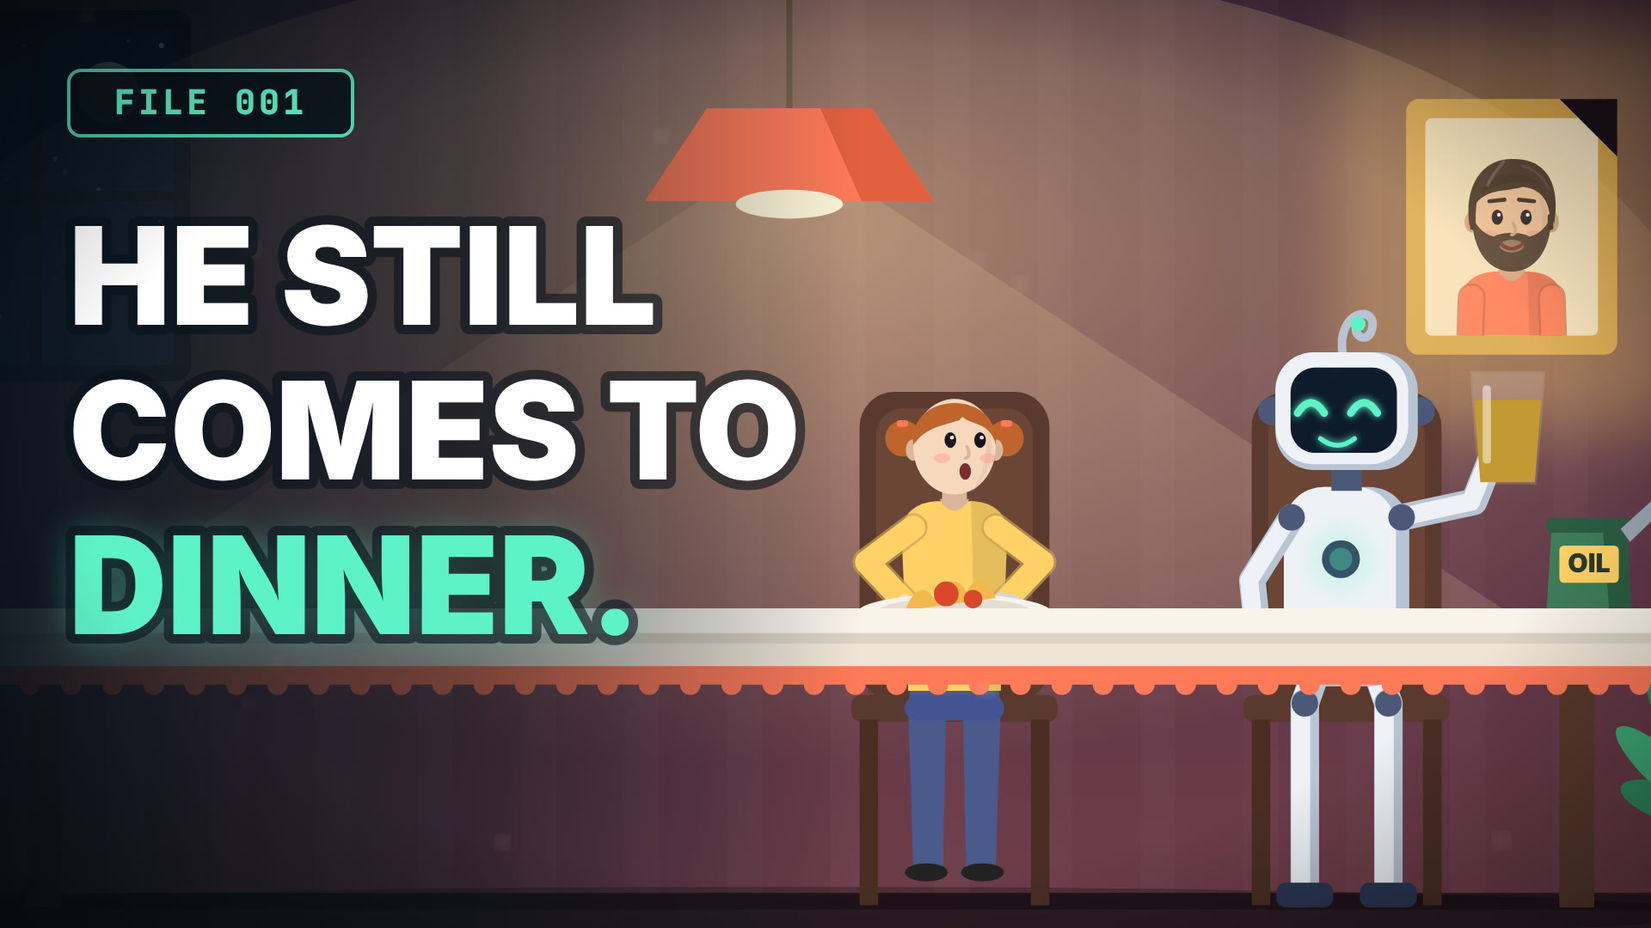
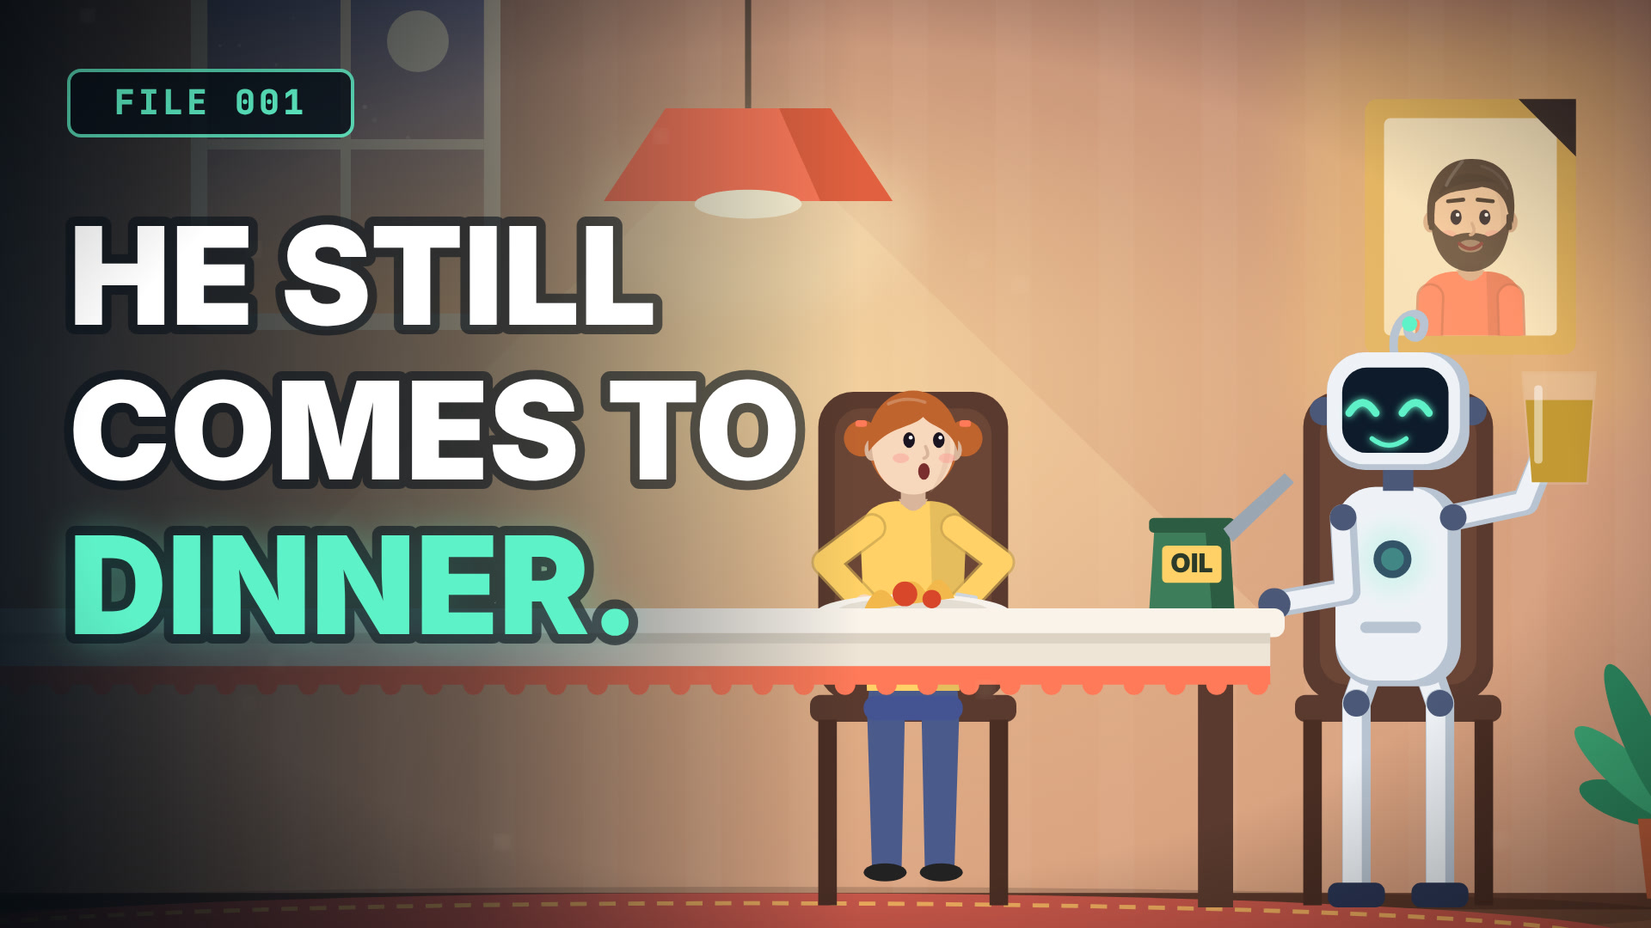
Esstisch: Eltern am Kopf, helles warmes Licht, Lilys Haare, Fenster und Bilder neu platziert
Claude-Session: https://claude.ai/code/session_01CuRfxHh2iLhwMTCqKNrY1o

diff --git a/animation/the-copy/scenes.js b/animation/the-copy/scenes.js
@@ -5,31 +5,33 @@ const camLerp = (k, a, b) => [lerp(a[0], b[0], k), lerp(a[1], b[1], k), lerp(a[2
 
 // ======================= ESSZIMMER =======================
 const TY = 700, FLOOR = 990, SEATY = 780;   // Tischkante, Boden, Sitzhöhe                      // Tischkante
-const SEAT = { mom: 430, lily: 800, ben: 1150, bot: 1500 };
+const SEAT = { mom: 290, lily: 740, ben: 1180, bot: 1600 };
+const TBL = 420, TBR = 1500;   // Tischenden: Mama und Papa sitzen am Kopf
 const eat = (t, ph) => { const c = ((t + ph) % 2.6) / 2.6; return c < .5 ? ease(c * 2) : ease((1 - c) * 2); };
 
+const WX = 340, WY = -50;   // Fenster: nach rechts und etwas nach oben verschoben
 function room(t, dayK = 0) {
-  let s = `<linearGradient id="wall" x1="0" y1="0" x2="0" y2="1"><stop offset="0" stop-color="#2c1f33"/><stop offset=".65" stop-color="#5a3446"/><stop offset="1" stop-color="#6e3d4a"/></linearGradient>
+  let s = `<linearGradient id="wall" x1="0" y1="0" x2="0" y2="1"><stop offset="0" stop-color="#8a5a5e"/><stop offset=".6" stop-color="#c58a74"/><stop offset="1" stop-color="#d49a7c"/></linearGradient>
   <rect x="-400" y="-400" width="${W + 800}" height="${FLOOR + 400}" fill="url(#wall)"/>`;
-  for (let i = -4; i < 24; i++) s += `<rect x="${i * 100}" y="-400" width="34" height="${FLOOR + 400}" fill="#fff" opacity=".022"/>`;
-  const top = mix('#101a3d', '#6fc3ff', dayK), bot = mix('#2a2d5e', '#ffd6a0', dayK);
+  for (let i = -4; i < 24; i++) s += `<rect x="${i * 100}" y="-400" width="34" height="${FLOOR + 400}" fill="#fff" opacity=".045"/>`;
+  const top = mix('#4a5aa8', '#6fc3ff', dayK), bot = mix('#ffb07a', '#ffd6a0', dayK);
   s += `<linearGradient id="win" x1="0" y1="0" x2="0" y2="1"><stop offset="0" stop-color="${top}"/><stop offset="1" stop-color="${bot}"/></linearGradient>
-  <rect x="80" y="120" width="300" height="360" rx="16" fill="#1c1420"/><rect x="96" y="136" width="268" height="328" rx="8" fill="url(#win)"/>`;
+  <rect x="${80 + WX}" y="${120 + WY}" width="300" height="360" rx="16" fill="#f3e6d6"/><rect x="${96 + WX}" y="${136 + WY}" width="268" height="328" rx="8" fill="url(#win)"/>`;
   const R = rng(11);
-  for (let i = 0; i < 26; i++) { const sx = 100 + R() * 260, sy = 140 + R() * 300, ph = R() * 6; s += `<circle cx="${sx}" cy="${sy}" r="${1 + R() * 2}" fill="#fff" opacity="${(1 - dayK) * (.4 + .5 * Math.sin(t * 2 + ph) ** 2)}"/>`; }
-  s += `<circle cx="300" cy="200" r="30" fill="${dayK > .5 ? '#fff4c2' : '#f2f0e6'}"/>
-  <rect x="225" y="136" width="10" height="328" fill="#1c1420"/><rect x="96" y="295" width="268" height="10" fill="#1c1420"/>`;
+  for (let i = 0; i < 26; i++) { const sx = WX + 100 + R() * 260, sy = WY + 140 + R() * 300, ph = R() * 6; s += `<circle cx="${sx}" cy="${sy}" r="${1 + R() * 2}" fill="#fff" opacity="${(1 - dayK) * (.2 + .3 * Math.sin(t * 2 + ph) ** 2) * (sy < 300 + WY ? 1 : 0)}"/>`; }
+  s += `<circle cx="${300 + WX}" cy="${200 + WY}" r="30" fill="${dayK > .5 ? '#fff4c2' : '#f2f0e6'}"/>
+  <rect x="${225 + WX}" y="${136 + WY}" width="10" height="328" fill="#f3e6d6"/><rect x="${96 + WX}" y="${295 + WY}" width="268" height="10" fill="#f3e6d6"/>`;
   return s;
 }
 function lamp(t) {
   return `<line x1="960" y1="-400" x2="960" y2="215" stroke="#1a1018" stroke-width="6"/>
-    <polygon points="260,${TY + 6} 1660,${TY + 6} 1040,300 880,300" fill="#ffe2b0" opacity=".16"/>
-    <ellipse cx="960" cy="${TY - 200}" rx="900" ry="440" fill="url(#lampGlow)" opacity=".7"/>
+    <polygon points="${TBL + 40},${TY + 6} ${TBR - 40},${TY + 6} 1040,300 880,300" fill="#fff0c8" opacity=".24"/>
+    <ellipse cx="960" cy="${TY - 220}" rx="1250" ry="700" fill="url(#lampGlow)"/><ellipse cx="960" cy="330" rx="160" ry="90" fill="#fff3c8" opacity=".35" filter="url(#glow)"/>
     <path d="M880 215 L1040 215 L1100 305 L820 305 Z" fill="${CORAL}"/><path d="M990 215 L1040 215 L1100 305 L1030 305 Z" fill="#e0603f"/>
     <ellipse cx="960" cy="308" rx="52" ry="14" fill="#fff6d8"/>`;
 }
 // Bilderrahmen; Nr. 0 = Papa (Gold), weitere erscheinen im Zeitraffer
-const FRAMES = [[1700, 190, 'dad'], [1830, 260, 'a'], [1610, 300, 'b'], [1280, 170, 'mom'], [1420, 210, 'c'], [1880, 110, 'd']];
+const FRAMES = [[1480, 190, 'dad'], [1620, 260, 'a'], [1355, 345, 'b'], [1240, 140, 'mom'], [1780, 200, 'c'], [1640, 95, 'd']];
 function frames(n, hl = 0) {
   let s = '';
   FRAMES.forEach(([fx, fy, who], i) => {
@@ -54,18 +56,31 @@ function plant(k) {
   for (let i = 0; i < 7; i++) l += `<g transform="rotate(${-90 + (i - 3) * 24})"><ellipse cx="${55 + (i % 3) * 18}" cy="0" rx="${55 + (i % 3) * 18}" ry="20" fill="${i % 2 ? '#3fae7a' : '#2e8c62'}"/></g>`;
   return `<g transform="translate(1860 ${FLOOR - 86}) scale(${sc})">${l}<path d="M-42 0 L42 0 L32 86 L-32 86 Z" fill="#c8643f"/></g>`;
 }
-function table() {
-  return `<rect x="220" y="${TY + 60}" width="34" height="${FLOOR - TY - 60}" fill="#5a3a2e"/><rect x="1706" y="${TY + 60}" width="34" height="${FLOOR - TY - 60}" fill="#5a3a2e"/>
-    <rect x="150" y="${TY}" width="1660" height="28" rx="10" fill="#f9f3ea"/>
-    <rect x="164" y="${TY + 24}" width="1632" height="40" fill="#efe5d6"/>
-    <rect x="164" y="${TY + 24}" width="1632" height="10" fill="#000" opacity=".08"/>
-    <rect x="164" y="${TY + 56}" width="1632" height="18" fill="${CORAL}"/>
-    ${Array.from({ length: 41 }, (_, i) => `<circle cx="${184 + i * 40}" cy="${TY + 74}" r="10" fill="${CORAL}"/>`).join('')}`;
+function table(TBL_ = TBL, TBR_ = TBR) {
+  const TBL = TBL_, TBR = TBR_, w = TBR - TBL, n = Math.floor((w - 40) / 40) + 1;
+  return `<rect x="${TBL + 50}" y="${TY + 60}" width="34" height="${FLOOR - TY - 60}" fill="#5a3a2e"/><rect x="${TBR - 84}" y="${TY + 60}" width="34" height="${FLOOR - TY - 60}" fill="#5a3a2e"/>
+    <rect x="${TBL}" y="${TY}" width="${w}" height="28" rx="10" fill="#f9f3ea"/>
+    <rect x="${TBL + 14}" y="${TY + 24}" width="${w - 28}" height="40" fill="#efe5d6"/>
+    <rect x="${TBL + 14}" y="${TY + 24}" width="${w - 28}" height="10" fill="#000" opacity=".08"/>
+    <rect x="${TBL + 14}" y="${TY + 56}" width="${w - 28}" height="18" fill="${CORAL}"/>
+    ${Array.from({ length: n }, (_, i) => `<circle cx="${TBL + 34 + i * 40}" cy="${TY + 74}" r="10" fill="${CORAL}"/>`).join('')}`;
+}
+// Mitte des Tisches: Auflaufform mit Dampf, Brotkorb, Kerze
+function tableCenter(t) {
+  const st = [0, 1, 2].map(i => { const k = ((t * .35 + i / 3) % 1); return `<path d="M${930 + i * 30} ${TY - 70 - k * 60} q 10 -14 0 -28 q -10 -14 0 -28" stroke="#fff" stroke-width="5" fill="none" stroke-linecap="round" opacity="${.25 * Math.sin(k * Math.PI)}"/>`; }).join('');
+  // große Spaghetti-Schüssel ("Spaghetti, as always")
+  return `${st}<ellipse cx="960" cy="${TY - 66}" rx="70" ry="26" fill="#f4d27a"/>
+    ${[-40, -14, 12, 38].map((dx, i) => `<path d="M${960 + dx - 26} ${TY - 64} q 14 -${18 + i * 3} 28 -4 q 12 14 24 -2" stroke="#e8b84e" stroke-width="5" fill="none" stroke-linecap="round"/>`).join('')}
+    <ellipse cx="972" cy="${TY - 82}" rx="30" ry="14" fill="#d9442f"/><circle cx="948" cy="${TY - 80}" r="9" fill="#8a3a2a"/><circle cx="984" cy="${TY - 88}" r="8" fill="#8a3a2a"/><path d="M990 ${TY - 96} l 10 -8 l 4 10 z" fill="#3fae7a"/>
+    <path d="M876 ${TY - 64} L1044 ${TY - 64} C 1040 ${TY - 20}, 1010 ${TY - 2}, 960 ${TY - 2} C 910 ${TY - 2}, 880 ${TY - 20}, 876 ${TY - 64} Z" fill="#f7f3ec"/>
+    <path d="M880 ${TY - 50} L1040 ${TY - 50} L1036 ${TY - 40} L884 ${TY - 40} Z" fill="${CORAL}" opacity=".85"/>
+    ${[852, 1068].map((cx, i) => `<rect x="${cx - 7}" y="${TY - 96}" width="14" height="94" rx="4" fill="#fff3dd"/><ellipse cx="${cx}" cy="${TY - 108 + Math.sin(t * 7 + i) * 1.5}" rx="7" ry="12" fill="${SUN}"/><circle cx="${cx}" cy="${TY - 108}" r="34" fill="${SUN}" opacity="${.14 + .04 * Math.sin(t * 9 + i)}"/>`).join('')}`;
 }
 function floorAndChairs(seats) {
-  let s = `<rect x="-400" y="${FLOOR}" width="${W + 800}" height="600" fill="#3a2630"/><rect x="-400" y="${FLOOR - 14}" width="${W + 800}" height="16" fill="#2a1a22"/>`;
-  for (let i = 0; i < 6; i++) s += `<rect x="-400" y="${FLOOR + 22 + i * 30}" width="${W + 800}" height="3" fill="#000" opacity=".15"/>`;
-  s += `<ellipse cx="960" cy="${FLOOR + 6}" rx="900" ry="26" fill="#000" opacity=".25"/>`;
+  let s = `<rect x="-400" y="${FLOOR}" width="${W + 800}" height="600" fill="#8a5a42"/><rect x="-400" y="${FLOOR - 14}" width="${W + 800}" height="16" fill="#6b4232"/>`;
+  for (let i = 0; i < 6; i++) s += `<rect x="-400" y="${FLOOR + 22 + i * 30}" width="${W + 800}" height="3" fill="#000" opacity=".1"/>`;
+  s += `<ellipse cx="960" cy="${FLOOR + 6}" rx="900" ry="26" fill="#000" opacity=".15"/>`;
+  s += `<ellipse cx="960" cy="${FLOOR + 30}" rx="860" ry="44" fill="#c8574a"/><ellipse cx="960" cy="${FLOOR + 30}" rx="820" ry="34" fill="none" stroke="${SUN}" stroke-width="4" stroke-dasharray="16 12" opacity=".7"/>`;
   seats.forEach(x => s += `<rect x="${x - 92}" y="${SEATY - 290}" width="184" height="300" rx="34" fill="#5a3a2e"/><rect x="${x - 76}" y="${SEATY - 274}" width="152" height="268" rx="26" fill="#6b4636"/>
     <rect x="${x - 100}" y="${SEATY + 4}" width="200" height="26" rx="10" fill="#5a3a2e"/>
     <rect x="${x - 92}" y="${SEATY + 28}" width="18" height="${FLOOR - SEATY - 30}" fill="#4a2e24"/><rect x="${x + 74}" y="${SEATY + 28}" width="18" height="${FLOOR - SEATY - 30}" fill="#4a2e24"/>`);
@@ -79,8 +94,8 @@ function family(t, st) {
   const rest = (x, sc) => ({ hL: [x - 58 * sc, TY - 4], hR: [x + 58 * sc, TY - 4] });
   if (st.momOp > 0) {
     s += person({ x: SEAT.mom, neck: N, hair: 'mom', hairCol: mix('#8a5a3c', '#d8d8de', st.momGrey || 0), skin: '#f6d1b0', shirt: '#3fae7a', t,
-      look: st.momLook || [6, 0], mouth: st.momMouth || 'smile', brows: st.momBrows, blink: blinkAt(t, 1), op: st.momOp, age: st.momGrey,
-      legs: 'sit', foot: FLOOR, pants: '#3a3550', ...rest(SEAT.mom, 1) });
+      look: st.momLook || [12, 0], mouth: st.momMouth || 'smile', brows: st.momBrows, blink: blinkAt(t, 1), op: st.momOp, age: st.momGrey,
+      legs: 'sit', foot: FLOOR, pants: '#3a3550', hL: [SEAT.mom - 40, SEATY + 6], hR: [TBL + 46, TY - 4] });
   }
   if (st.lilyOp > 0) {
     const ls = st.lilyS || .8, ln = SEATY - 230 * ls;
@@ -100,20 +115,20 @@ function family(t, st) {
 
 // Roboter am Tisch inkl. Öl-Handlung. st.pour/st.drink 0..1
 function botAtTable(t, st) {
-  const bx = SEAT.bot, n = SEATY - 205, CAN = [1700, TY + 4], GL = [1620, TY + 2];
-  let hR = [bx + 84, TY + 44], hL = [bx - 84, TY + 44], can = CAN, canTilt = 0, gp = GL, gTilt = 0, level = st.level ?? .7;
+  const bx = SEAT.bot, n = SEATY - 205, CAN = [TBR - 70, TY + 4], GL = [TBR - 170, TY + 2];
+  let hR = [bx + 56, SEATY + 6], hL = [TBR - 10, TY - 4], can = CAN, canTilt = 0, gp = GL, gTilt = 0, level = st.level ?? .7;
   if (st.reach > 0) {
-    can = [lerp(CAN[0], 1660, st.lift || 0), lerp(CAN[1], TY - 150, st.lift || 0)];
+    can = [lerp(CAN[0], GL[0] + 40, st.lift || 0), lerp(CAN[1], TY - 150, st.lift || 0)];
     canTilt = -55 * (st.pour || 0);
-    hR = [lerp(hR[0], can[0], st.reach), lerp(hR[1], can[1] - 40, st.reach)];
+    hL = [lerp(hL[0], can[0], st.reach), lerp(hL[1], can[1] - 40, st.reach)];
   }
   if (st.drink > 0) {
-    gp = [lerp(GL[0], bx + 40, st.drink), lerp(GL[1], n - 60, st.drink)]; gTilt = -60 * st.drink;
-    hR = [gp[0] + 12, gp[1] - 40];
+    gp = [lerp(GL[0], bx - 40, st.drink), lerp(GL[1], n - 60, st.drink)]; gTilt = 60 * st.drink;
+    hL = [gp[0] - 12, gp[1] - 40];
   }
-  if (st.wave > 0) hL = [lerp(hL[0], bx - 120 + Math.sin(t * 11) * 22, st.wave), lerp(hL[1], n - 70, st.wave)];
+  if (st.wave > 0) hR = [lerp(hR[0], bx + 120 + Math.sin(t * 11) * 22, st.wave), lerp(hR[1], n - 70, st.wave)];
   if (st.hRover) hR = st.hRover;
-  let s = robot({ x: bx, neck: n, s: .92, t, legs: 'sit', foot: FLOOR, eyes: st.eyes || 'on', look: st.look || [-4, 0], blink: blinkAt(t, 6), hR, hL, steam: st.steam || 0,
+  let s = robot({ x: bx, neck: n, s: .92, t, legs: 'sit', foot: FLOOR, eyes: st.eyes || 'on', look: st.look || [-10, 0], blink: blinkAt(t, 6), hR, hL, steam: st.steam || 0,
     mouth: st.mouth, patch: st.patch, item: st.item, screen: st.screen });
   if ((st.pour || 0) > .3) {
     const a = (canTilt - 42) * Math.PI / 180, sx = can[0] + Math.cos(a) * 150, sy = can[1] + Math.sin(a) * 150;
@@ -127,7 +142,8 @@ function dinnerBase(t, o) {
   let s = room(t, o.dayK || 0) + frames(o.frames ?? 3, o.dadHl || 0) + lamp(t) + floorAndChairs([SEAT.mom, SEAT.lily, SEAT.ben, SEAT.bot]) + plant(o.plant || 0);
   s += family(t, o.fam);
   s += botAtTable(t, o.bot);
-  s += plate(SEAT.mom, TY + 4, true, t, o.fam.momOp > 0 || o.platesAll ? 1 : 0);
+  s += tableCenter(t);
+  s += plate(TBL + 112, TY + 4, true, t, o.fam.momOp > 0 || o.platesAll ? 1 : 0);
   s += plate(SEAT.lily, TY + 4, true, t, o.fam.lilyOp > 0 ? 1 : 0);
   s += plate(SEAT.ben, TY + 4, true, t, o.fam.benOp > 0 || o.platesAll ? 1 : 0);
   s += table();
@@ -167,16 +183,16 @@ function sceneDinnerOpen(t) {
   let c = [1.0, 960, 540];
   const zBot = inOut(t, F('s01', .45), F('s01', .55), F('s01', .72), F('s01', .8));
   const zPh = inOut(t, F('s01', .74), F('s01', .84), E('s01') + .3, S('s02') + .3);
-  c = camLerp(ease(zBot), c, [1.45, 1500, 560]);
-  c = camLerp(ease(zPh), c, [1.9, 1700, 260]);
+  c = camLerp(ease(zBot), c, [1.45, SEAT.bot - 40, 560]);
+  c = camLerp(ease(zPh), c, [1.9, FRAMES[0][0], 260]);
   const zOil = inOut(t, r0 - .2, r0 + .4, d0 + 2.4, d0 + 3.2);
-  c = camLerp(zOil * .6, c, [1.35, 1560, 600]);
+  c = camLerp(zOil * .6, c, [1.35, 1460, 600]);
   const zLily = ease(prog(t, F('s03', .45), E('s03')));
-  c = camLerp(zLily * .7, c, [1.5, 800, 600]);
+  c = camLerp(zLily * .7, c, [1.5, SEAT.lily, 600]);
   c[0] *= 1 + .03 * Math.sin(t * .3);
   let s = `<g transform="${cam(...c)}">${dinnerBase(t, { fam, bot, dadHl: photoK })}
-    ${bubble(1360, 360, "…and then the toaster said: I'm toast!", joke, { robot: true, tail: 80, size: 34, maxW: 520 })}
-    ${photoK > 0 ? tag('IN LOVING MEMORY · 2077', 1585, 330, photoK, SUN) : ''}</g>`;
+    ${bubble(1400, 400, "…and then the toaster said: I'm toast!", joke, { robot: true, tail: 80, size: 34, maxW: 520 })}
+    ${photoK > 0 ? tag('IN LOVING MEMORY · 2077', FRAMES[0][0] - 115, 78, photoK, SUN) : ''}</g>`;
   s += headline(['WOULD YOU SIT', 'AT THIS TABLE?'], 960, 150, t, F('s03', .02), F('s03', .42), { size: 96 });
   return s;
 }
@@ -191,9 +207,9 @@ function sceneDinnerAd(t) {
     hRover: [lerp(SEAT.bot + 70, SEAT.bot + 150, box), lerp(TY - 8, 480, box)],
     item: (x, y) => box > 0 ? cereal(x + 30, y - 10, box) : '',
   };
-  const c = camLerp(ease(prog(t, a, a + 1.2)), [1.0, 960, 540], [1.45, 1440, 560]);
+  const c = camLerp(ease(prog(t, a, a + 1.2)), [1.0, 960, 540], [1.45, SEAT.bot - 60, 560]);
   let s = `<g transform="${cam(...c)}">${dinnerBase(t, { fam, bot })}
-    ${sparkles(1640, 390, t, box)}</g>`;
+    ${sparkles(SEAT.bot + 140, 390, t, box)}</g>`;
   s += tag('SPONSORED MESSAGE', 60, 60, prog(t, a + .4, a + .8), SUN);
   s += stamp('AD', 1720, 900, prog(t, F('s19r', .7), F('s19r', .8)), CORAL, 12, 90);
   return s;
@@ -228,7 +244,7 @@ function sceneDinnerLapse(t) {
   const kidIn = back(prog(k, .68, .78)), kid2 = back(prog(k, .74, .84));
   fam.extra = [];
   if (kidIn > 0) fam.extra.push(`<g transform="translate(${SEAT.mom} ${FLOOR}) scale(${kidIn}) translate(${-SEAT.mom} ${-FLOOR})">` +
-    person({ x: SEAT.mom, neck: SEATY - 230 * .78, s: .78, legs: 'sit', foot: FLOOR - 40, pants: '#2d3a5a', hair: 'short', hairCol: '#222', skin: '#c98d64', shirt: '#4cc9f0', look: [8, 0], blink: blinkAt(t, 8), mouth: 'grin', hL: [SEAT.mom - 46, TY - 4], hR: [SEAT.mom + 46, TY - 4] }) + '</g>');
+    person({ x: SEAT.mom, neck: SEATY - 230 * .78, s: .78, legs: 'sit', foot: FLOOR - 40, pants: '#2d3a5a', hair: 'short', hairCol: '#222', skin: '#c98d64', shirt: '#4cc9f0', look: [8, 0], blink: blinkAt(t, 8), mouth: 'grin', hL: [SEAT.mom - 34, SEATY + 2], hR: [TBL + 40, TY - 4] }) + '</g>');
   if (kid2 > 0) fam.extra.push(`<g transform="translate(${SEAT.ben} ${FLOOR}) scale(${kid2}) translate(${-SEAT.ben} ${-FLOOR})">` +
     person({ x: SEAT.ben, neck: SEATY - 230 * .76, s: .76, legs: 'sit', foot: FLOOR - 40, pants: '#3a3550', hair: 'long', hairCol: '#e0b050', skin: '#f6d1b0', shirt: '#b07cff', look: [10, -2], blink: blinkAt(t, 9), mouth: 'smile', hL: [SEAT.ben - 46, TY - 4], hR: [SEAT.ben + 46, TY - 4] }) + '</g>');
   // Roboter trinkt immer wieder
@@ -262,9 +278,9 @@ function sceneDinnerPayoff(t) {
   }
   fam.t = t;
   let c = [1.0, 960, 540];
-  c = camLerp(ease(prog(t, S('s24') - .4, S('s24') + .6)), c, [1.55, 800, 600]);
-  c = camLerp(ease(prog(t, S('s25') - .2, S('s25') + .8)), c, [1.7, 1480, 560]);
-  c = camLerp(ease(prog(t, F('s25', .84), E('s25'))), c, [2.0, 1500, 520]);
+  c = camLerp(ease(prog(t, S('s24') - .4, S('s24') + .6)), c, [1.55, SEAT.lily, 600]);
+  c = camLerp(ease(prog(t, S('s25') - .2, S('s25') + .8)), c, [1.7, SEAT.bot - 20, 560]);
+  c = camLerp(ease(prog(t, F('s25', .84), E('s25'))), c, [2.0, SEAT.bot, 520]);
   let s = `<g transform="${cam(...c)}">${dinnerBase(t, { fam, bot })}</g>`;
   s += bubble(760, 170, 'Dad? Are you still you?', inOut(t, S('s24') + .1, S('s24') + .4, E('s24') + 1.2, E('s24') + 1.5), { tail: 40, size: 44 });
   s += bubble(1240, 150, 'I think so.', inOut(t, S('s25') + .1, S('s25') + .4, F('s25', .4), F('s25', .45)), { robot: true, tail: 120, size: 40 });
@@ -854,7 +870,7 @@ function render(t) {
     <filter id="glow" x="-30%" y="-60%" width="160%" height="220%"><feGaussianBlur stdDeviation="22"/></filter>
     <filter id="glowS" x="-50%" y="-50%" width="200%" height="200%"><feGaussianBlur stdDeviation="3.5" result="b"/><feMerge><feMergeNode in="b"/><feMergeNode in="SourceGraphic"/></feMerge></filter>
     <filter id="sepia"><feColorMatrix type="matrix" values=".39 .77 .19 0 0 .35 .69 .17 0 0 .27 .53 .13 0 0 0 0 0 1 0"/></filter>
-    <radialGradient id="lampGlow" cx=".5" cy=".3" r=".6"><stop offset="0" stop-color="#ffd79a" stop-opacity=".75"/><stop offset="1" stop-color="#ffd79a" stop-opacity="0"/></radialGradient>
+    <radialGradient id="lampGlow" cx=".5" cy=".5" r=".5"><stop offset="0" stop-color="#ffe3a8" stop-opacity=".8"/><stop offset=".45" stop-color="#ffd79a" stop-opacity=".35"/><stop offset="1" stop-color="#ffd79a" stop-opacity="0"/></radialGradient>
     <linearGradient id="tvShine" x1="0" y1="0" x2="1" y2="1"><stop offset="0" stop-color="#fff"/><stop offset=".5" stop-color="#fff" stop-opacity="0"/></linearGradient>
     <linearGradient id="fog" x1="0" y1="0" x2="1" y2="0"><stop offset="0" stop-color="#10283a" stop-opacity="0"/><stop offset=".5" stop-color="#9fc" stop-opacity=".12"/><stop offset="1" stop-color="#cfe" stop-opacity=".25"/></linearGradient>
     <radialGradient id="vig" cx=".5" cy=".5" r=".75"><stop offset=".6" stop-color="#000" stop-opacity="0"/><stop offset="1" stop-color="#000" stop-opacity=".55"/></radialGradient>

diff --git a/animation/the-copy/thumbnail.html b/animation/the-copy/thumbnail.html
@@ -18,7 +18,7 @@
  * Links: Schlagzeile. Gerendert mit: node ../thumb.js the-copy/thumbnail.html <ziel.png> */
 function thumb() {
   const t = 1.3;
-  const LX = 1120, BX = 1500;                         // Sitzplätze Tochter / Roboter
+  const LX = 1120, BX = 1590, TE = 1480;              // Tochter / Roboter am Tischende / Tischende                         // Sitzplätze Tochter / Roboter
   const ls = .8, ln = SEATY - 230 * ls;
   const bn = SEATY - 205;
 
@@ -37,17 +37,17 @@ function thumb() {
   world += person({ x: LX, neck: ln, s: ls, hair: 'lily', hairCol: '#c0642e', skin: '#f8d8bc', shirt: SUN, t,
     look: [13, -6], mouth: 'o', brows: 'up', legs: 'sit', foot: FLOOR - 30, pants: '#4a5a8a',
     hL: [LX - 58 * ls, TY - 4], hR: [LX + 58 * ls, TY - 4] });
-  // Roboter-Papa: hebt das Ölglas (Prost), linke Hand liegt auf dem Tisch
+  // Roboter-Papa am Kopf des Tisches: hebt das Ölglas (Prost), linke Hand liegt auf dem Tisch
   const hR = [BX + 150, TY - 170];
   world += robot({ x: BX, neck: bn, s: .92, t, legs: 'sit', foot: FLOOR, eyes: 'happy', look: [-6, 0],
-    hR, hL: [BX - 84, TY + 44] });
+    hR, hL: [TE - 10, TY - 4] });
   world += glass(hR[0] + 6, hR[1] + 48, .8, '#b8860b', 0, 1.15);
-  world += oilCan(1735, TY + 4, 0, .9);
+  world += oilCan(TE - 90, TY + 4, 0, .9);
   // Teller ohne Dampf (der läge sonst als Kringel auf dem Shirt)
   world += plate(LX, TY + 4, true, t).replace(/<path d="[^"]*q 10 -12 0 -24[^>]*\/>/g, '');
-  world += table();
+  world += table(-300, TE);
 
-  const cam1 = cam(1.2, 995, 560);
+  const cam1 = cam(1.2, 1035, 560);
   let s = `<g transform="${cam1}">${world}</g>`;
   // dunkler Verlauf links für die Schrift
   s += `<linearGradient id="lft" x1="0" y1="0" x2="1" y2="0"><stop offset="0" stop-color="#06121c" stop-opacity=".92"/><stop offset=".55" stop-color="#06121c" stop-opacity=".55"/><stop offset="1" stop-color="#06121c" stop-opacity="0"/></linearGradient>
@@ -68,7 +68,7 @@ document.getElementById('stage').innerHTML = `<defs>
     <filter id="soft" x="-50%" y="-50%" width="200%" height="200%"><feGaussianBlur stdDeviation="9"/></filter>
     <filter id="glow" x="-30%" y="-60%" width="160%" height="220%"><feGaussianBlur stdDeviation="22"/></filter>
     <filter id="glowS" x="-50%" y="-50%" width="200%" height="200%"><feGaussianBlur stdDeviation="3.5" result="b"/><feMerge><feMergeNode in="b"/><feMergeNode in="SourceGraphic"/></feMerge></filter>
-    <radialGradient id="lampGlow" cx=".5" cy=".3" r=".6"><stop offset="0" stop-color="#ffd79a" stop-opacity=".75"/><stop offset="1" stop-color="#ffd79a" stop-opacity="0"/></radialGradient>
+    <radialGradient id="lampGlow" cx=".5" cy=".5" r=".5"><stop offset="0" stop-color="#ffe3a8" stop-opacity=".8"/><stop offset=".45" stop-color="#ffd79a" stop-opacity=".35"/><stop offset="1" stop-color="#ffd79a" stop-opacity="0"/></radialGradient>
     <radialGradient id="vig" cx=".5" cy=".5" r=".75"><stop offset=".6" stop-color="#000" stop-opacity="0"/><stop offset="1" stop-color="#000" stop-opacity=".5"/></radialGradient>
   </defs>` + thumb();
 </script>

diff --git a/animation/the-copy/lib.js b/animation/the-copy/lib.js
@@ -127,9 +127,10 @@ const HAIR = {
     (x, y, s, c) => `<path d="M${x - 62 * s} ${y + 46 * s} C ${x - 78 * s} ${y - 40 * s}, ${x - 40 * s} ${y - 80 * s}, ${x} ${y - 78 * s} C ${x + 40 * s} ${y - 80 * s}, ${x + 78 * s} ${y - 40 * s}, ${x + 62 * s} ${y + 46 * s} Z" fill="${c}"/>`,
     (x, y, s, c) => `<path d="M${x - 54 * s} ${y + 4 * s} C ${x - 58 * s} ${y - 60 * s}, ${x + 20 * s} ${y - 82 * s}, ${x + 54 * s} ${y - 20 * s} C ${x + 30 * s} ${y - 40 * s}, ${x - 10 * s} ${y - 30 * s}, ${x - 30 * s} ${y - 40 * s} C ${x - 40 * s} ${y - 20 * s}, ${x - 46 * s} ${y - 8 * s}, ${x - 54 * s} ${y + 4 * s} Z" fill="${c}"/>`],
   lily: [
-    (x, y, s, c) => `<circle cx="${x - 62 * s}" cy="${y - 10 * s}" r="${22 * s}" fill="${c}"/><circle cx="${x + 62 * s}" cy="${y - 10 * s}" r="${22 * s}" fill="${c}"/>
+    (x, y, s, c) => `<ellipse cx="${x}" cy="${y - 6 * s}" rx="${55 * s}" ry="${62 * s}" fill="${c}"/><circle cx="${x - 62 * s}" cy="${y - 10 * s}" r="${22 * s}" fill="${c}"/><circle cx="${x + 62 * s}" cy="${y - 10 * s}" r="${22 * s}" fill="${c}"/>
       <rect x="${x - 70 * s}" y="${y - 32 * s}" width="${14 * s}" height="${8 * s}" rx="3" fill="${CORAL}"/><rect x="${x + 56 * s}" y="${y - 32 * s}" width="${14 * s}" height="${8 * s}" rx="3" fill="${CORAL}"/>`,
-    (x, y, s, c) => `<path d="M${x - 50 * s} ${y - 2 * s} C ${x - 56 * s} ${y - 70 * s}, ${x + 56 * s} ${y - 70 * s}, ${x + 50 * s} ${y - 2 * s} C ${x + 44 * s} ${y - 30 * s}, ${x + 20 * s} ${y - 26 * s}, ${x + 10 * s} ${y - 36 * s} C ${x - 4 * s} ${y - 24 * s}, ${x - 30 * s} ${y - 30 * s}, ${x - 50 * s} ${y - 2 * s} Z" fill="${c}"/>`],
+    (x, y, s, c) => `<path d="M${x - 54 * s} ${y + 6 * s} C ${x - 62 * s} ${y - 88 * s}, ${x + 62 * s} ${y - 88 * s}, ${x + 54 * s} ${y + 6 * s} C ${x + 46 * s} ${y - 24 * s}, ${x + 24 * s} ${y - 22 * s}, ${x + 12 * s} ${y - 36 * s} C ${x - 2 * s} ${y - 22 * s}, ${x - 30 * s} ${y - 26 * s}, ${x - 54 * s} ${y + 6 * s} Z" fill="${c}"/>
+      <path d="M${x - 30 * s} ${y - 52 * s} Q ${x - 8 * s} ${y - 62 * s} ${x + 14 * s} ${y - 54 * s}" stroke="#fff" stroke-width="${4 * s}" fill="none" stroke-linecap="round" opacity=".22"/>`],
   ben: [
     (x, y, s, c) => '',
     (x, y, s, c) => `<path d="M${x - 52 * s} ${y - 4 * s} L${x - 58 * s} ${y - 48 * s} L${x - 34 * s} ${y - 58 * s} L${x - 26 * s} ${y - 84 * s} L${x} ${y - 66 * s} L${x + 18 * s} ${y - 86 * s} L${x + 30 * s} ${y - 60 * s} L${x + 56 * s} ${y - 62 * s} L${x + 52 * s} ${y - 6 * s} C ${x + 30 * s} ${y - 36 * s}, ${x - 30 * s} ${y - 36 * s}, ${x - 52 * s} ${y - 4 * s} Z" fill="${c}"/>`],
